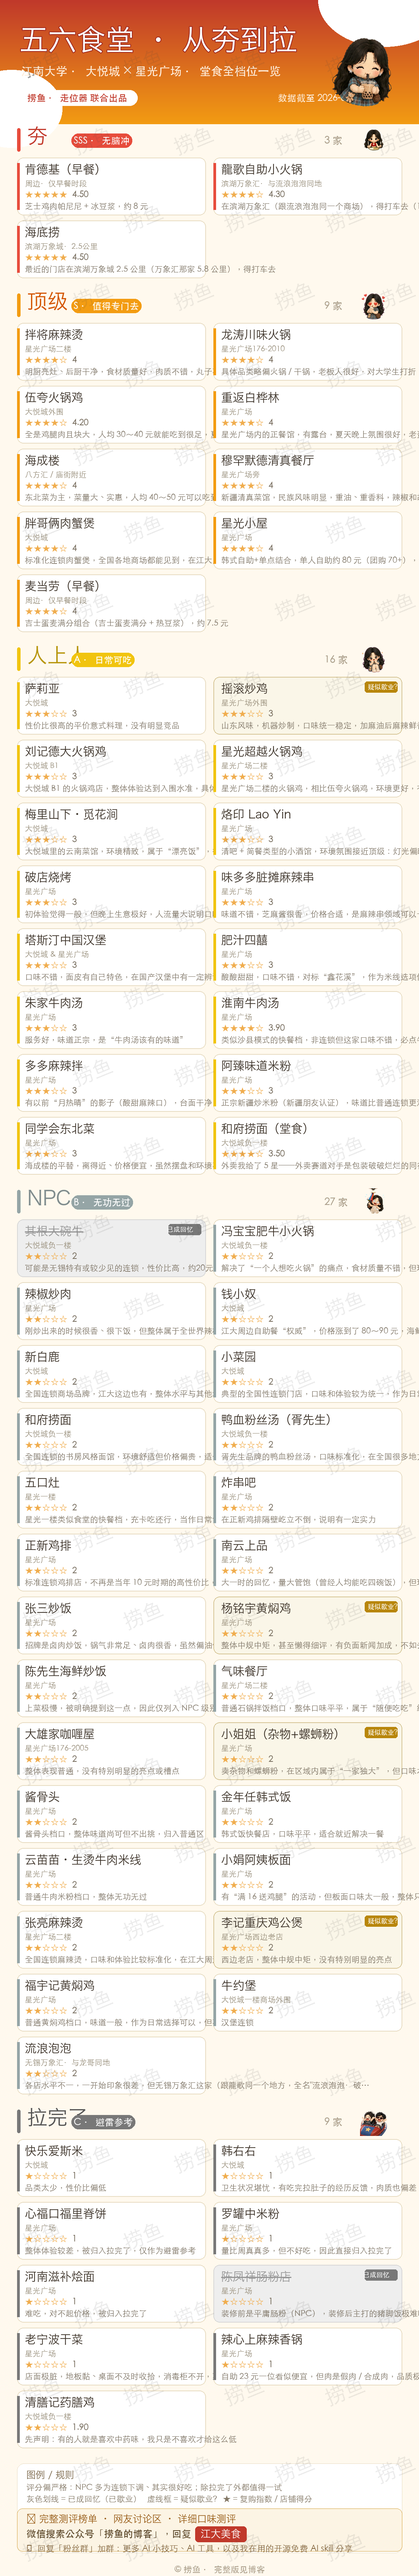
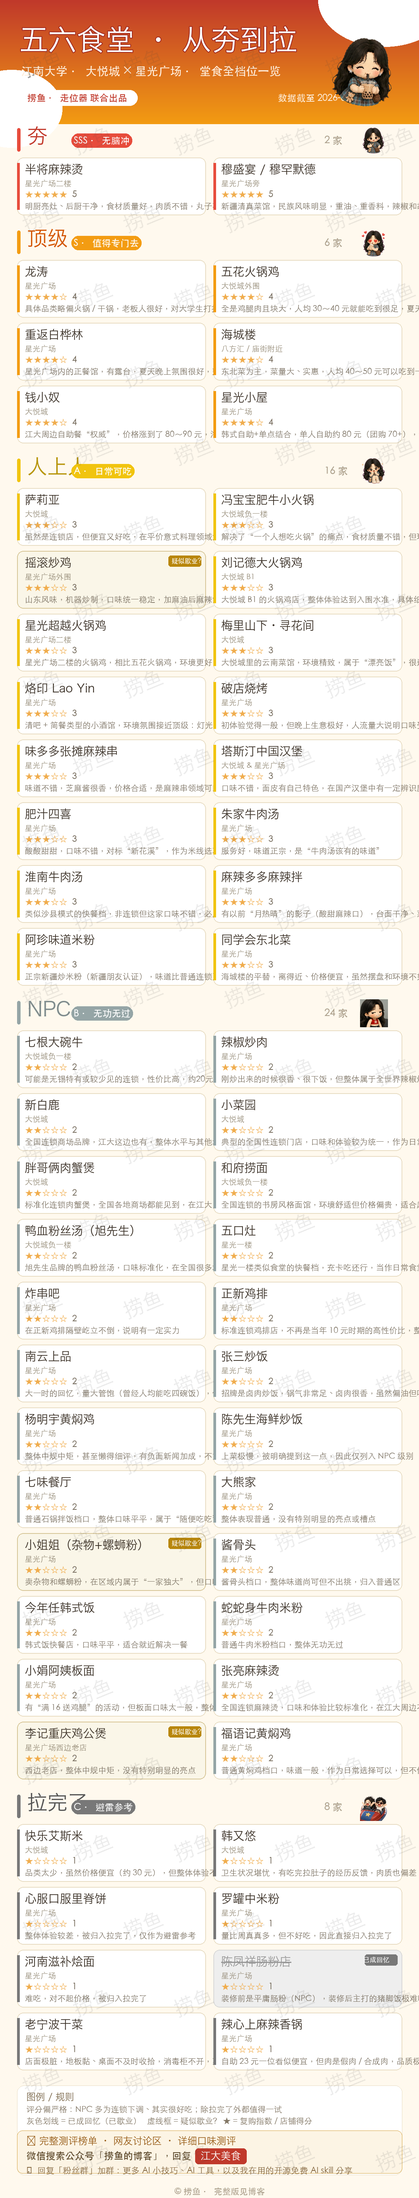
🖼 归档一图流生成器: tools/generate_posters.py(PIL渲染从夯到拉排名一图流) + 补齐takeout/extras数据 + 三张一图流PNG — 便于后续AI直接重生成

Changed region(s): [[0.0, 0.0, 1.0, 0.9996]]

diff --git a/tools/generate_posters.py b/tools/generate_posters.py
@@ -1,0 +1,275 @@
+# -*- coding: utf-8 -*-
+"""从夯到拉排名 · 一图流生成器(原版代码,2026-08 归档入仓库)
+
+从本仓库 assets/lib-custom/ 的 tier js(canteen/takeout/noodle-tier.js)解析数据,
+用 PIL 渲染「手抄报」式一图流 PNG(1080 宽,高密度排版 + 星星布丁表情包 + 捞鱼水印),
+输出到 assets/img/posters/。更新排名后重跑本脚本即可重新生成三张一图流。
+
+用法: python3 tools/generate_posters.py
+依赖: Pillow(pip3 install Pillow);中文字体(macOS 自动用系统字体,Linux 自动找 Noto Sans CJK)
+可选环境变量:
+  TIER_REPO   = 数据仓库根(默认: 本脚本所在仓库根)
+  STICKER_DIR = 表情包目录(默认: 星星布丁表情包本地路径;缺失时自动降级为无表情,不影响出图)
+"""
+import re, os, math
+from PIL import Image, ImageDraw, ImageFont, ImageFilter
+
+ROOT = os.path.dirname(os.path.abspath(__file__))
+REPO = os.environ.get('TIER_REPO', os.path.abspath(os.path.join(ROOT, '..')))
+STICKER_DIR = os.environ.get('STICKER_DIR', "/Users/zeen/Documents/共享/星星布丁/微信表情包/所有表情/精选")
+
+def _font(cands):
+    for p in cands:
+        if os.path.exists(p):
+            return p
+    return cands[-1]  # 让 PIL 报错,提示装字体
+
+F_BOLD = _font(["/System/Library/Fonts/Hiragino Sans GB.ttc",
+                "/usr/share/fonts/opentype/noto/NotoSansCJK-Bold.ttc",
+                "/usr/share/fonts/truetype/wqy/wqy-zenhei.ttc"])
+F_MED  = _font(["/System/Library/Fonts/STHeiti Medium.ttc",
+                "/usr/share/fonts/opentype/noto/NotoSansCJK-Regular.ttc",
+                "/usr/share/fonts/truetype/wqy/wqy-zenhei.ttc"])
+F_LIGHT= _font(["/System/Library/Fonts/STHeiti Light.ttc",
+                "/usr/share/fonts/opentype/noto/NotoSansCJK-Light.ttc",
+                F_MED])
+OUT_DIR = os.path.join(REPO, 'assets', 'img', 'posters')
+os.makedirs(OUT_DIR, exist_ok=True)
+
+
+W = 1080
+PAD = 44
+
+TIER_STYLE = {
+    '夯':   dict(main=(194,57,43),  grad=(231,76,60),  tag='SSS · 无脑冲'),
+    '顶级': dict(main=(211,84,0),   grad=(243,156,18), tag='S · 值得专门去'),
+    '人上人':dict(main=(183,149,11), grad=(241,196,15), tag='A · 日常可吃'),
+    'NPC':  dict(main=(127,140,141), grad=(149,165,166),tag='B · 无功无过'),
+    '拉完了': dict(main=(85,85,85),  grad=(120,120,120),tag='C · 避雷参考'),
+}
+TIER_STICKERS = {
+    '夯':   ['星第3弹-吃饭.png', '第12弹-开心.png'],
+    '顶级': ['第12弹-心动.png', '第18弹-偷笑.png'],
+    '人上人': ['第12弹-期待.png', '星第4弹-开心.png'],
+    'NPC':  ['星第3弹-无语.png', '第37弹-呃.png'],
+    '拉完了': ['星第3弹-呜呜.png', '第29弹-啊啊啊.png'],
+}
+HEADER_STICKERS = {'dine': '第35弹-吸溜.png', 'takeout': '第12弹-期待.png', 'noodle': '星第3弹-吃饭.png'}
+
+CLOSED = ['陈凤祥', '其根']            # 已成回忆
+UNCERTAIN = ['杨铭宇', '李记重庆鸡公煲', '小姐姐', 'Black Burger', '摇滚炒鸡']
+
+def parse_js(path):
+    s = open(path, encoding='utf-8').read()
+    objs = re.findall(
+        r"\{\s*name:\s*'([^']+)',\s*tier:\s*'([^']+)',\s*tierLabel:\s*'([^']*)',\s*rating:\s*([\d.]+),\s*description:\s*((?:'[^']*'\s*)+)",
+        s)
+    out = []
+    for name, tier, label, rating, desc in objs:
+        desc = ''.join(re.findall(r"'([^']*)'", desc))
+        out.append(dict(name=name.strip(), tier=tier.strip(), label=label.strip(),
+                        rating=float(rating), desc=desc.strip()))
+    return out
+
+def split_name(name):
+    m = re.match(r'【([^】]*)】(.*)', name)
+    return (m.group(1), m.group(2)) if m else ('', name)
+
+def oneliner(desc, n=42):
+    d = re.split(r'[。；]', desc)[0]
+    return (d[:n] + '…') if len(d) > n else d
+
+def status_of(name):
+    for k in CLOSED:
+        if k in name: return 'closed'
+    for k in UNCERTAIN:
+        if k in name: return 'uncertain'
+    return None
+
+def stars(dr, xy, rating, size=22, color=(240,173,78)):
+    x, y = xy
+    full = int(rating); half = (rating - full) >= 0.5
+    f = ImageFont.truetype(F_MED, size)
+    dr.text((x, y), '★' * (full + (1 if half else 0)) + '☆' * (5 - full - (1 if half else 0)),
+            font=f, fill=color)
+    return dr.textlength('★' * 5, font=f)
+
+def paste_round(img, box, radius, fill=None, outline=None, width=2):
+    dr = ImageDraw.Draw(img)
+    dr.rounded_rectangle(box, radius=radius, fill=fill, outline=outline, width=width)
+
+def load_sticker(name, size):
+    p = os.path.join(STICKER_DIR, name)
+    if not os.path.exists(p): return None
+    im = Image.open(p).convert('RGBA')
+    return im.resize((size, size), Image.LANCZOS)
+
+def add_watermark(img):
+    wm_txt = Image.new('RGBA', (300, 200), (0, 0, 0, 0))
+    d = ImageDraw.Draw(wm_txt)
+    d.text((30, 60), '捞鱼', font=ImageFont.truetype(F_BOLD, 52), fill=(60, 60, 60, 26))
+    wm_txt = wm_txt.rotate(22, expand=True)
+    tile = Image.new('RGBA', (img.width + wm_txt.width, img.height + wm_txt.height), (0,0,0,0))
+    for yy in range(0, tile.height, 200):
+        for xx in range(0, tile.width, 260):
+            tile.alpha_composite(wm_txt, (xx + (yy // 200 % 2) * 130, yy))
+    img.alpha_composite(tile.crop((0, 0, img.width, img.height)))
+
+def round_text_card(canvas, item, x, y, w, h):
+    """单个店铺卡片"""
+    dr = ImageDraw.Draw(canvas)
+    st = status_of(item['name'])
+    main = TIER_STYLE[item['tier']]['grad']
+    if st == 'closed':
+        paste_round(canvas, (x, y, x + w, y + h), 16, fill=(238, 238, 238), outline=(215, 215, 215))
+    elif st == 'uncertain':
+        paste_round(canvas, (x, y, x + w, y + h), 16, fill=(250, 246, 232), outline=(214, 197, 150))
+    else:
+        paste_round(canvas, (x, y, x + w, y + h), 16, fill=(255, 255, 255), outline=(232, 220, 194))
+        dr.rectangle([x, y + 14, x + 6, y + h - 14], fill=main)
+
+    loc, short = split_name(item['name'])
+    pad = 20
+    name_f = ImageFont.truetype(F_BOLD, 30)
+    dr.text((x + pad, y + 14), short, font=name_f, fill=(60, 50, 40) if st != 'closed' else (150, 150, 150))
+    if st == 'closed':
+        lw = dr.textlength(short, font=name_f)
+        dr.line([x + pad, y + 32, x + pad + lw, y + 32], fill=(150, 150, 150), width=3)
+
+    yy = y + 56
+    if loc:
+        dr.text((x + pad, yy), loc, font=ImageFont.truetype(F_LIGHT, 20), fill=(150, 140, 120))
+        yy += 28
+    sw = stars(dr, (x + pad, yy), item['rating'])
+    score = f"{item['rating']:.2f}" if item['rating'] % 1 else f"{item['rating']:.0f}"
+    dr.text((x + pad + sw + 12, yy), score, font=ImageFont.truetype(F_MED, 22), fill=(120, 110, 95))
+    if st == 'closed':
+        dr.rounded_rectangle([x + w - 96, y + 12, x + w - 12, y + 40], 6, fill=(120, 120, 120))
+        dr.text((x + w - 100, y + 17), '已成回忆', font=ImageFont.truetype(F_MED, 17), fill=(255, 255, 255))
+    elif st == 'uncertain':
+        dr.rounded_rectangle([x + w - 96, y + 12, x + w - 12, y + 40], 6, fill=(184, 134, 11))
+        dr.text((x + w - 88, y + 17), '疑似歇业?', font=ImageFont.truetype(F_MED, 17), fill=(255, 255, 255))
+    dr.text((x + pad, y + h - 34), oneliner(item['desc']), font=ImageFont.truetype(F_LIGHT, 21),
+            fill=(125, 115, 100))
+
+def render(kind, items, title, subtitle, foot_rule, out_name, byline='捞鱼 · 走位器 联合出品', wechat_kw=None):
+    tiers = ['夯', '顶级', '人上人', 'NPC', '拉完了']
+    COLS = 2
+    CARD_W = (W - PAD * 2 - 20) // COLS
+    CARD_H = 148
+
+    # 预计算高度
+    head_h = 320
+    secs = []
+    for t in tiers:
+        its = [i for i in items if i['tier'] == t]
+        if not its: continue
+        rows = math.ceil(len(its) / COLS)
+        secs.append((t, its, 96 + rows * (CARD_H + 14) + 18))
+    foot_h = 210
+    H = head_h + sum(h for _, _, h in secs) + foot_h + 30
+
+    img = Image.new('RGBA', (W, H), (255, 249, 238, 255))
+    dr = ImageDraw.Draw(img)
+
+    # ---- 头部 ----
+    for i in range(head_h):
+        c = (int(192 + (243 - 192) * i / head_h), int(57 + (156 - 57) * i / head_h),
+             int(43 + (18 - 43) * i / head_h))
+        dr.line([(0, i), (W, i)], fill=c)
+    # 头部装饰圆
+    dr.ellipse([W - 260, -120, W + 80, 120], fill=(255, 255, 255, 30))
+    dr.ellipse([-100, head_h - 140, 160, head_h + 60], fill=(255, 255, 255, 25))
+
+    dr.text((PAD + 6, 64), title, font=ImageFont.truetype(F_BOLD, 74), fill=(255, 255, 255),
+            stroke_width=2, stroke_fill=(160, 40, 30))
+    dr.text((PAD + 10, 168), subtitle, font=ImageFont.truetype(F_MED, 30), fill=(255, 238, 220))
+    dr.rounded_rectangle([PAD + 10, 232, PAD + 10 + 300, 272], 20, fill=(255, 255, 255))
+    dr.text((PAD + 26, 240), byline, font=ImageFont.truetype(F_MED, 24), fill=(192, 57, 43))
+    dr.text((W - PAD - 320, 240), '数据截至 2026-08', font=ImageFont.truetype(F_MED, 24), fill=(255, 238, 220))
+
+    st = load_sticker(HEADER_STICKERS[kind], 190)
+    if st:
+        st2 = st.copy()
+        st2 = st2.rotate(-8, expand=True)
+        img.alpha_composite(st2, (W - 250, 70))
+
+    # ---- 档位区 ----
+    y = head_h + 10
+    for t, its, sec_h in secs:
+        sty = TIER_STYLE[t]
+        # 档位标题条
+        dr.rounded_rectangle([PAD, y, PAD + 8, y + 60], 4, fill=sty['grad'])
+        dr.text((PAD + 26, y - 6), t, font=ImageFont.truetype(F_BOLD, 52), fill=sty['main'])
+        tag_f = ImageFont.truetype(F_MED, 24)
+        tw = dr.textlength(sty['tag'], font=tag_f)
+        dr.rounded_rectangle([PAD + 140, y + 14, PAD + 152 + tw, y + 50], 18, fill=sty['grad'])
+        dr.text((PAD + 146, y + 20), sty['tag'], font=tag_f, fill=(255, 255, 255))
+        cnt = f"{len(its)} 家" if kind != 'noodle' else f"{len(its)} 款"
+        dr.text((W - PAD - 200, y + 18), cnt, font=ImageFont.truetype(F_MED, 26), fill=(170, 158, 138))
+        # 反应表情
+        sname = TIER_STICKERS[t][ord(t[0]) % 2]  # 确定性选择,重跑可复现(原 hash() 带随机盐)
+        st = load_sticker(sname, 72)
+        if st:
+            img.alpha_composite(st, (W - PAD - 108, y - 4))
+        y += 76
+        # 卡片网格
+        for idx, it in enumerate(its):
+            r, c = divmod(idx, COLS)
+            cx = PAD + c * (CARD_W + 20)
+            cy = y + r * (CARD_H + 14)
+            round_text_card(img, it, cx, cy, CARD_W, CARD_H)
+        y += math.ceil(len(its) / COLS) * (CARD_H + 14) + 26
+
+    # ---- 底部 ----
+    box_h = foot_h + 60
+    dr.rounded_rectangle([PAD, y, W - PAD, y + box_h - 40], 18, fill=(255, 255, 255),
+                         outline=(232, 220, 194))
+    dr.text((PAD + 24, y + 16), '图例 / 规则', font=ImageFont.truetype(F_BOLD, 24), fill=(120, 100, 70))
+    dr.text((PAD + 24, y + 50), foot_rule, font=ImageFont.truetype(F_LIGHT, 21), fill=(130, 118, 100))
+    dr.text((PAD + 24, y + 80), '灰色划线 = 已成回忆（已歇业）   虚线框 = 疑似歇业?   ★ = 复购指数 / 店铺得分',
+            font=ImageFont.truetype(F_LIGHT, 21), fill=(130, 118, 100))
+    # 引流区（纯文字，无二维码无链接）
+    gx_y = y + 116
+    dr.rounded_rectangle([PAD, gx_y, W - PAD, y + box_h - 44], 14,
+                         fill=(252, 244, 228), outline=(214, 164, 65))
+    if wechat_kw:
+        dr.text((PAD + 24, gx_y + 14), '📖 完整测评榜单 · 网友讨论区 · 详细口味测评',
+                font=ImageFont.truetype(F_BOLD, 25), fill=(150, 90, 20))
+        kw_f = ImageFont.truetype(F_BOLD, 26)
+        kw_box_w = dr.textlength(wechat_kw, font=kw_f) + 28
+        dr.text((PAD + 24, gx_y + 52),
+                '微信搜索公众号「捞鱼的博客」，回复', font=ImageFont.truetype(F_MED, 25), fill=(90, 70, 40))
+        bx = PAD + 24 + dr.textlength('微信搜索公众号「捞鱼的博客」，回复', font=ImageFont.truetype(F_MED, 25)) + 10
+        dr.rounded_rectangle([bx, gx_y + 46, bx + kw_box_w, gx_y + 86], 8,
+                             fill=(192, 57, 43))
+        dr.text((bx + 14, gx_y + 52), wechat_kw, font=kw_f, fill=(255, 255, 255))
+        dr.text((PAD + 24, gx_y + 92),
+                '🤖 回复「粉丝群」加群：更多 AI 小技巧、AI 工具，以及我在用的开源免费 AI skill 分享',
+                font=ImageFont.truetype(F_LIGHT, 22), fill=(130, 100, 60))
+    dr.text((W // 2 - 90, H - 28), '© 捞鱼 · 完整版见博客', font=ImageFont.truetype(F_MED, 22),
+            fill=(170, 158, 138))
+
+    add_watermark(img)
+    out = os.path.join(OUT_DIR, out_name)
+    img.convert('RGB').save(out, 'PNG')
+    print('saved', out, img.size)
+
+if __name__ == '__main__':
+    canteen = parse_js(os.path.join(REPO, 'assets/lib-custom/canteen-tier.js'))
+    takeout = parse_js(os.path.join(REPO, 'assets/lib-custom/takeout-tier.js'))
+    noodle  = parse_js(os.path.join(REPO, 'assets/lib-custom/noodle-tier.js'))
+    print('parsed:', len(canteen), len(takeout), len(noodle))
+
+    render('dine', canteen,
+           '五六食堂 · 从夯到拉', '江南大学 · 大悦城 × 星光广场 · 堂食全档位一览',
+           '评分偏严格：NPC 多为连锁下调、其实很好吃；除拉完了外都值得一试',
+           'poster-dine.png', wechat_kw='江大美食')
+    render('takeout', takeout,
+           '外卖 · 从夯到拉', '江南大学周边外卖 · 店铺得分 = 50%菜品均分 + 50%最高分',
+           '店铺得分 = 50% × 菜品平均分 + 50% × 最高菜品分；肯德基/麦当劳早餐已移堂食篇',
+           'poster-takeout.png', byline='捞鱼 · 一单一单吃出来的', wechat_kw='江大美食')
+    render('noodle', noodle,
+           '方便面 · 从夯到拉', '教育超市全口味测评 · 一碗一碗吃出来的排名',
+           '档位：夯→顶级→人上人→NPC→拉完了；卡片含口味 / 复购指数 / 一句话点评',
+           'poster-noodle.png', byline='捞鱼 · 一碗一碗吃出来的', wechat_kw='方便面')
